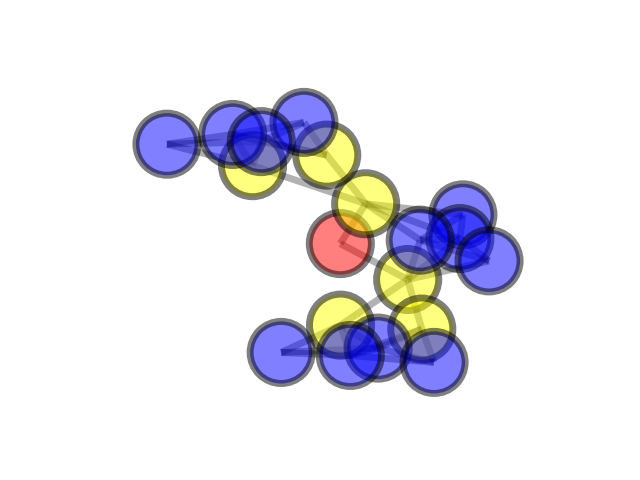
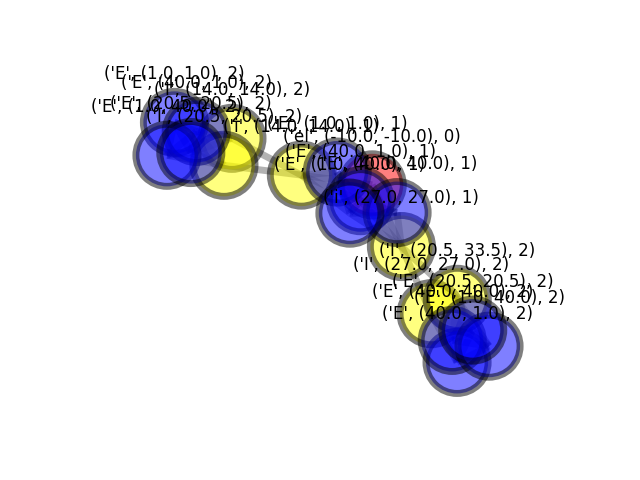
changes

Changed region(s): [[0.1562, 0.125, 0.875, 0.8438], [0.1562, 0.125, 0.1875, 0.1562]]

diff --git a/test_suite.py b/test_suite.py
@@ -13,6 +13,8 @@ from p9 import p9
 from p10 import p10
 
 
+from general_utils import save_graph
+
 class P1_Test(unittest.TestCase):
     def setUp(self):
         pass
@@ -152,8 +154,10 @@ class P2_Test(unittest.TestCase):
         G.add_nodes_from(nodes)
         G.add_edges_from(edges)
 
+        # save_graph(G, 'saved_graphs/graph_before.gexf')
         # when
         p2(G, level)
+        # save_graph(G, 'saved_graphs/graph_after.gexf')
 
         # then
         self.assertEqual(len(G.nodes), len(nodes) + 6)
@@ -222,22 +226,58 @@ class P2_Test(unittest.TestCase):
         self.assertNotEqual(G_copy.nodes, G.nodes)
         self.assertNotEqual(G_copy.edges, G.edges)
 
+<<<<<<< Updated upstream
     @parameterized.expand([["1", 1], ["2", 2], ["4", 4], ["5", 5]])
     def test_should_do_nothing_when_no_isomorphic_subgraph_found(
         self, _test_name: str, node_to_remove: int
     ):
+=======
+    @parameterized.expand([
+        ['1', 1], # ['2', 2], ['4', 4], ['5', 5]
+    ])
+    def test_should_do_nothing_when_no_isomorphic_subgraph_found(self, _test_name: str, node_to_remove: int):
+>>>>>>> Stashed changes
         # given
         G = self.base_p2_isomorphic_graph()
         G.remove_node(node_to_remove)
         level = 2
 
         # when
+        
+        # save_graph(G, 'saved_graphs/graph_before.gexf')
         G_copy = G.copy()
         p2(G_copy, level)
+        # save_graph(G, 'saved_graphs/graph_after.gexf')
 
         # then
         self.assertEqual(G_copy.nodes, G.nodes)
         self.assertEqual(G_copy.edges, G.edges)
+    
+    def test_if_one_egde_has_additional_node(self):
+
+        level = 1
+
+        nodes = [
+            (1, dict(label='E', x=0.0, y=1.0, level=level)),
+            (2, dict(label='E', x=1.0, y=1.0, level=level)),
+            (4, dict(label='E', x=0.0, y=0.0, level=level)),
+            (5, dict(label='I', x=1/3, y=2/3, level=level)),
+            (7, dict(label='E', x=0.5, y=0.5, level=level)),
+        ]
+        edges = [
+            (1,2), (4,1), # boundary edges
+            (2,7), (7,4), # internal edge
+            (1,5), (2,5), (4,5), # internal I node of triangle <1,2,4>
+        ]
+
+        G = nx.Graph()
+        G.add_nodes_from(nodes)
+        G.add_edges_from(edges)
+        save_graph(G, 'saved_graphs/graph_before.gexf')
+
+        p2(G, level)
+        save_graph(G, 'saved_graphs/graph_after.gexf')
+
 
 
 class P3_Test(unittest.TestCase):

diff --git a/p2.py b/p2.py
@@ -35,10 +35,12 @@ def p2(graph: nx.Graph, level: int) -> None:
 
     X = []
     Y = []
+    node_added = []
     for _, node in isomorphic_mapping.items():
         if graph.nodes[node][Attribute.LABEL] == "E":
             X.append(graph.nodes[node][Attribute.X])
             Y.append(graph.nodes[node][Attribute.Y])
+<<<<<<< Updated upstream
 
     new_e_x = (X[0] + X[2]) / 2
     new_e_y = (Y[0] + Y[2]) / 2
@@ -46,6 +48,28 @@ def p2(graph: nx.Graph, level: int) -> None:
     Y.append(new_e_y)
 
     right_side_parent_node = (parent_tmp_node_number, dict(label="i"))
+=======
+            node_added.append(node)
+    
+    # calulate distance between all endes from X and Y
+    # and find the longest one
+    distance = []
+    for i in range(len(X)):
+        for j in range(i+1, len(X)):
+            dist = ((X[i] - X[j]) ** 2 + (Y[i] - Y[j]) ** 2) ** 0.5
+            distance.append((dist, i, j))
+    distance.sort(key=lambda x: x[0], reverse=True)
+    max_distance_i = distance[0][1]
+    max_distance_j = distance[0][2]
+
+    new_e_x = (X[max_distance_i] + X[max_distance_j]) / 2
+    new_e_y = (Y[max_distance_i] + Y[max_distance_j]) / 2
+    X.append(new_e_x)
+    Y.append(new_e_y)
+
+
+    right_side_parent_node = (parent_tmp_node_number, dict(label='i'))
+>>>>>>> Stashed changes
     right_side_nodes_new = [
         (1, dict(label="I", x=(X[0] + X[1] + X[2]) / 3, y=(Y[0] + Y[1] + Y[2]) / 3)),
         (2, dict(label="I", x=(X[1] + X[2] + X[3]) / 3, y=(Y[1] + Y[2] + Y[3]) / 3)),
@@ -58,6 +82,7 @@ def p2(graph: nx.Graph, level: int) -> None:
     right_side_nodes = [right_side_parent_node] + right_side_nodes_new
 
     right_side_edges = [
+<<<<<<< Updated upstream
         (3, 4),
         (3, 6),
         (3, 1),
@@ -69,7 +94,17 @@ def p2(graph: nx.Graph, level: int) -> None:
         (5, 6),
         (6, 1),
         (6, 2),
+=======
+        (3,4), (3,6), (3,5), (3,1), (4,5), (4,6), (4,1), (4,2), (5,2), (5,6), (6,1), (6,2),
+>>>>>>> Stashed changes
     ]
+
+    try:
+        right_side_edges.remove((node_added[max_distance_i], node_added[max_distance_j]))
+    except:
+        right_side_edges.remove((node_added[max_distance_j], node_added[max_distance_i]))
+
+    
 
     right_production_side = nx.Graph()
     right_production_side.add_nodes_from(right_side_nodes)
